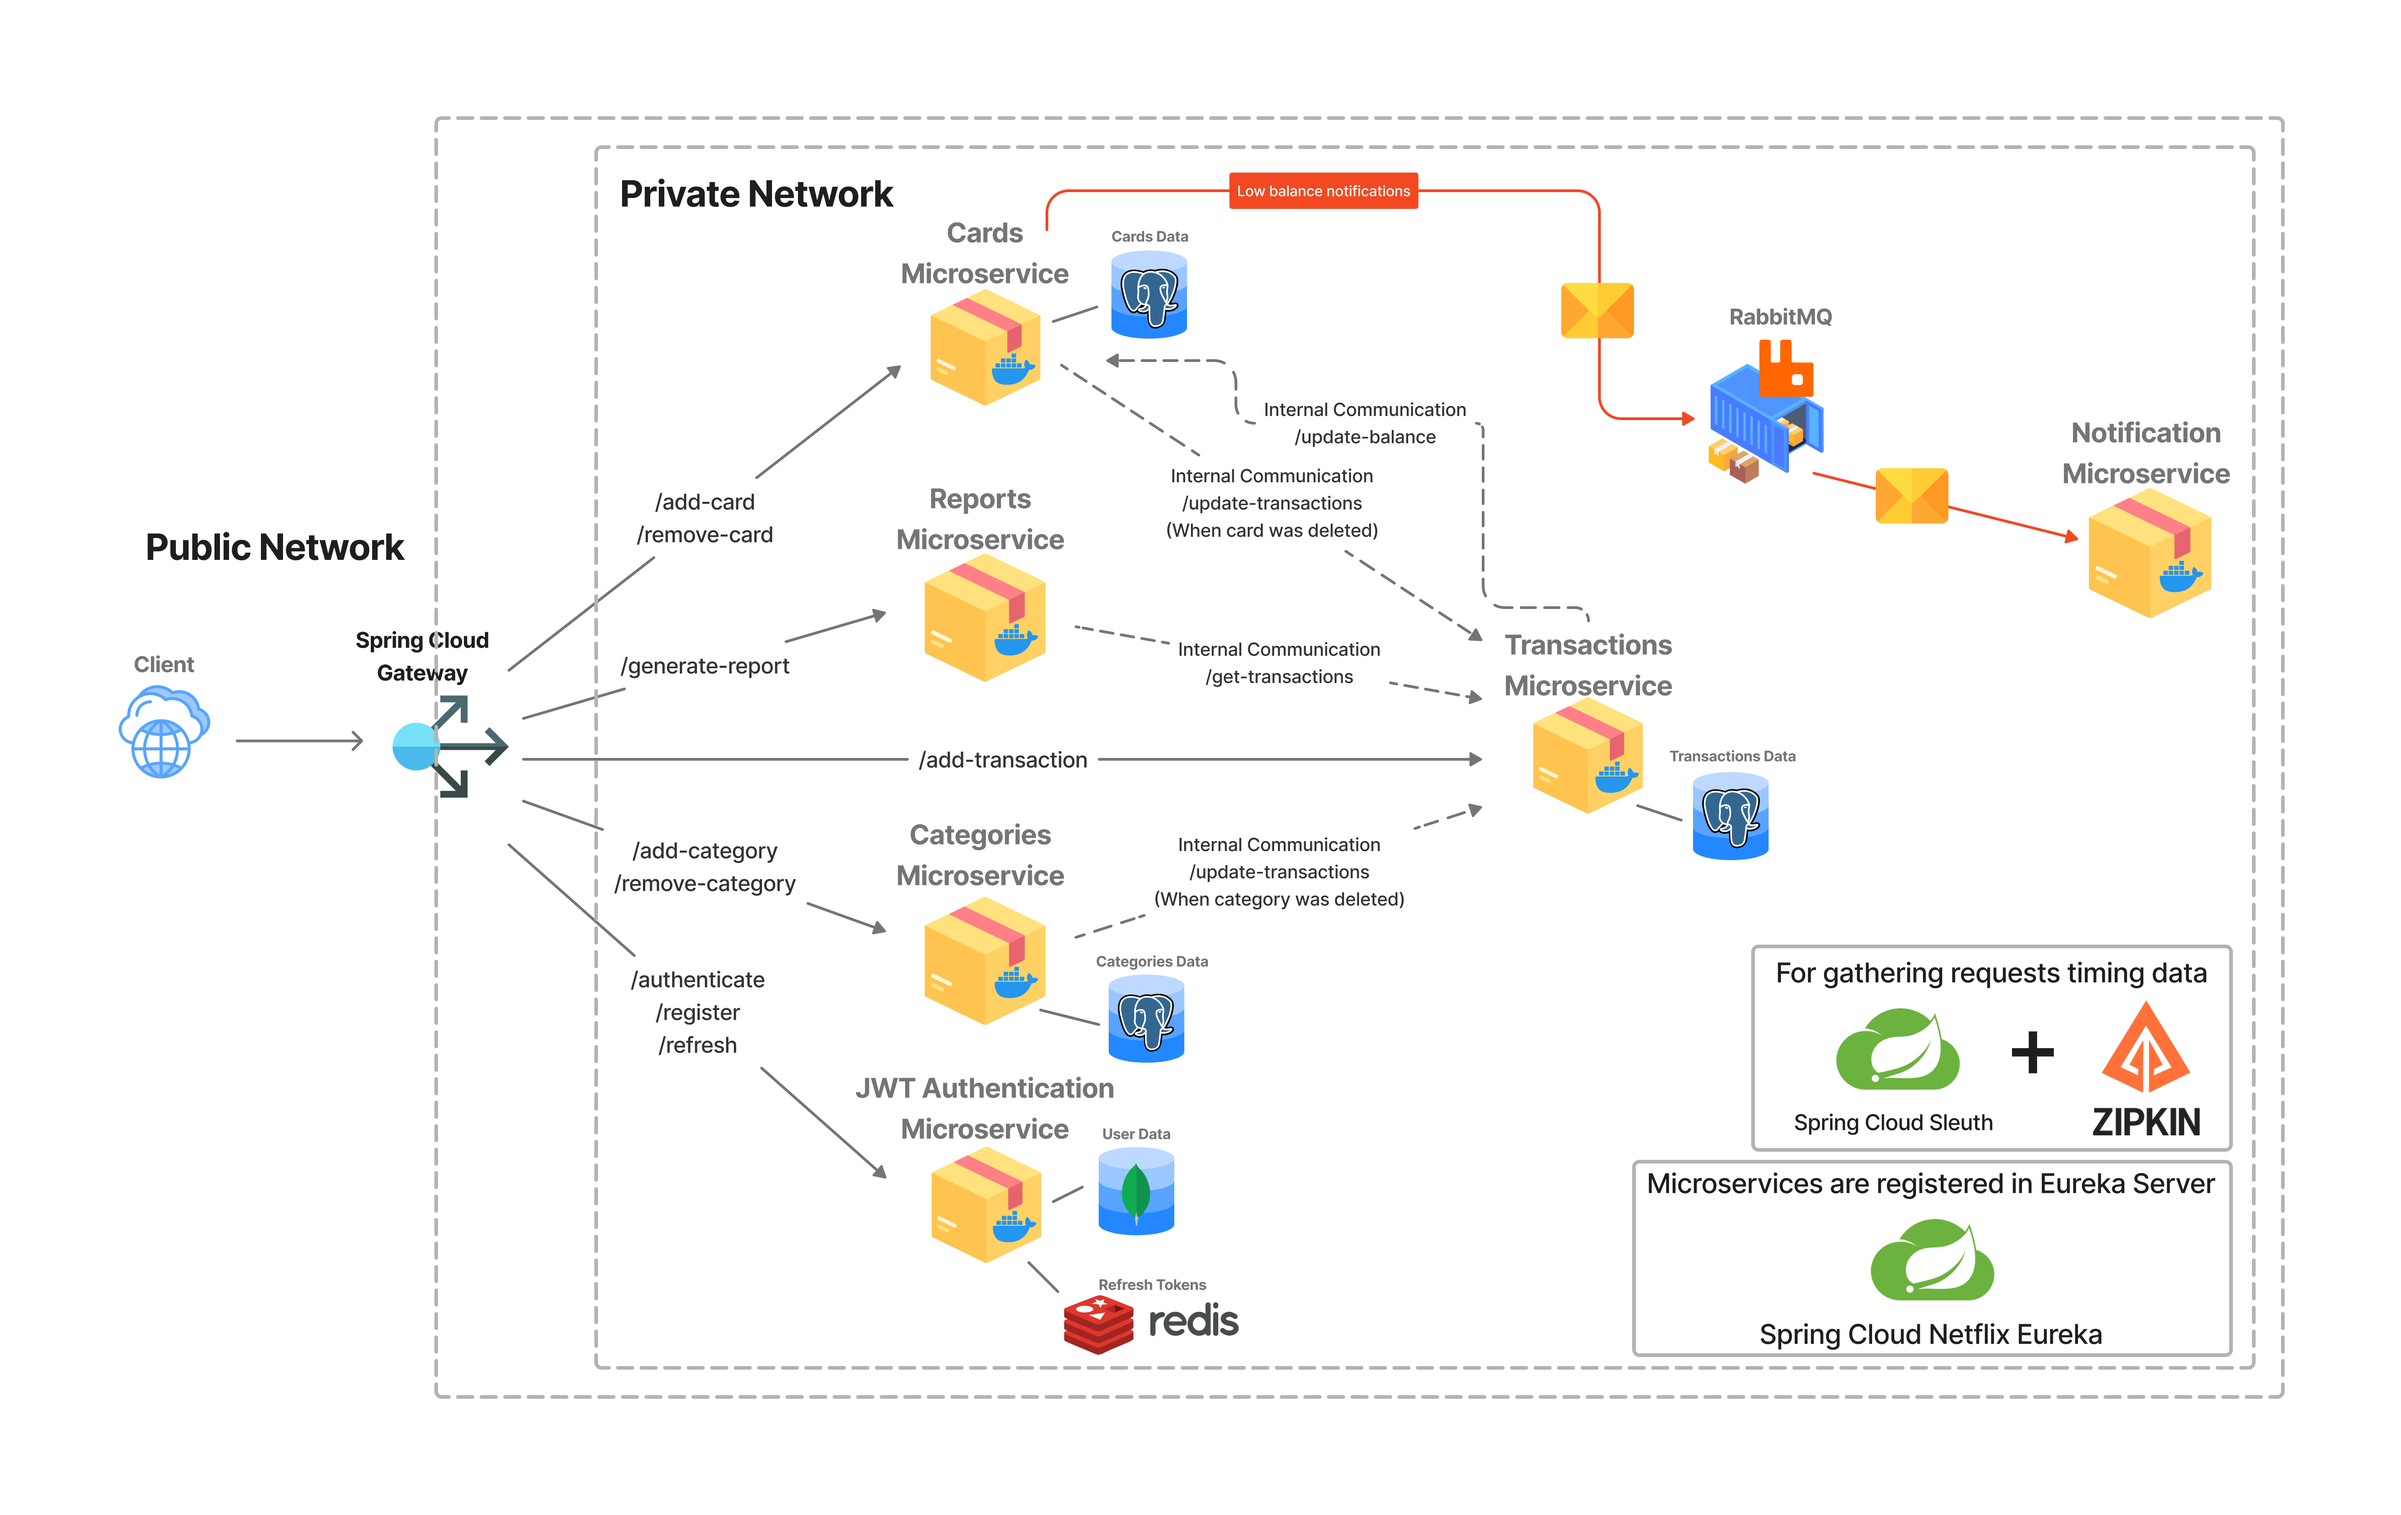
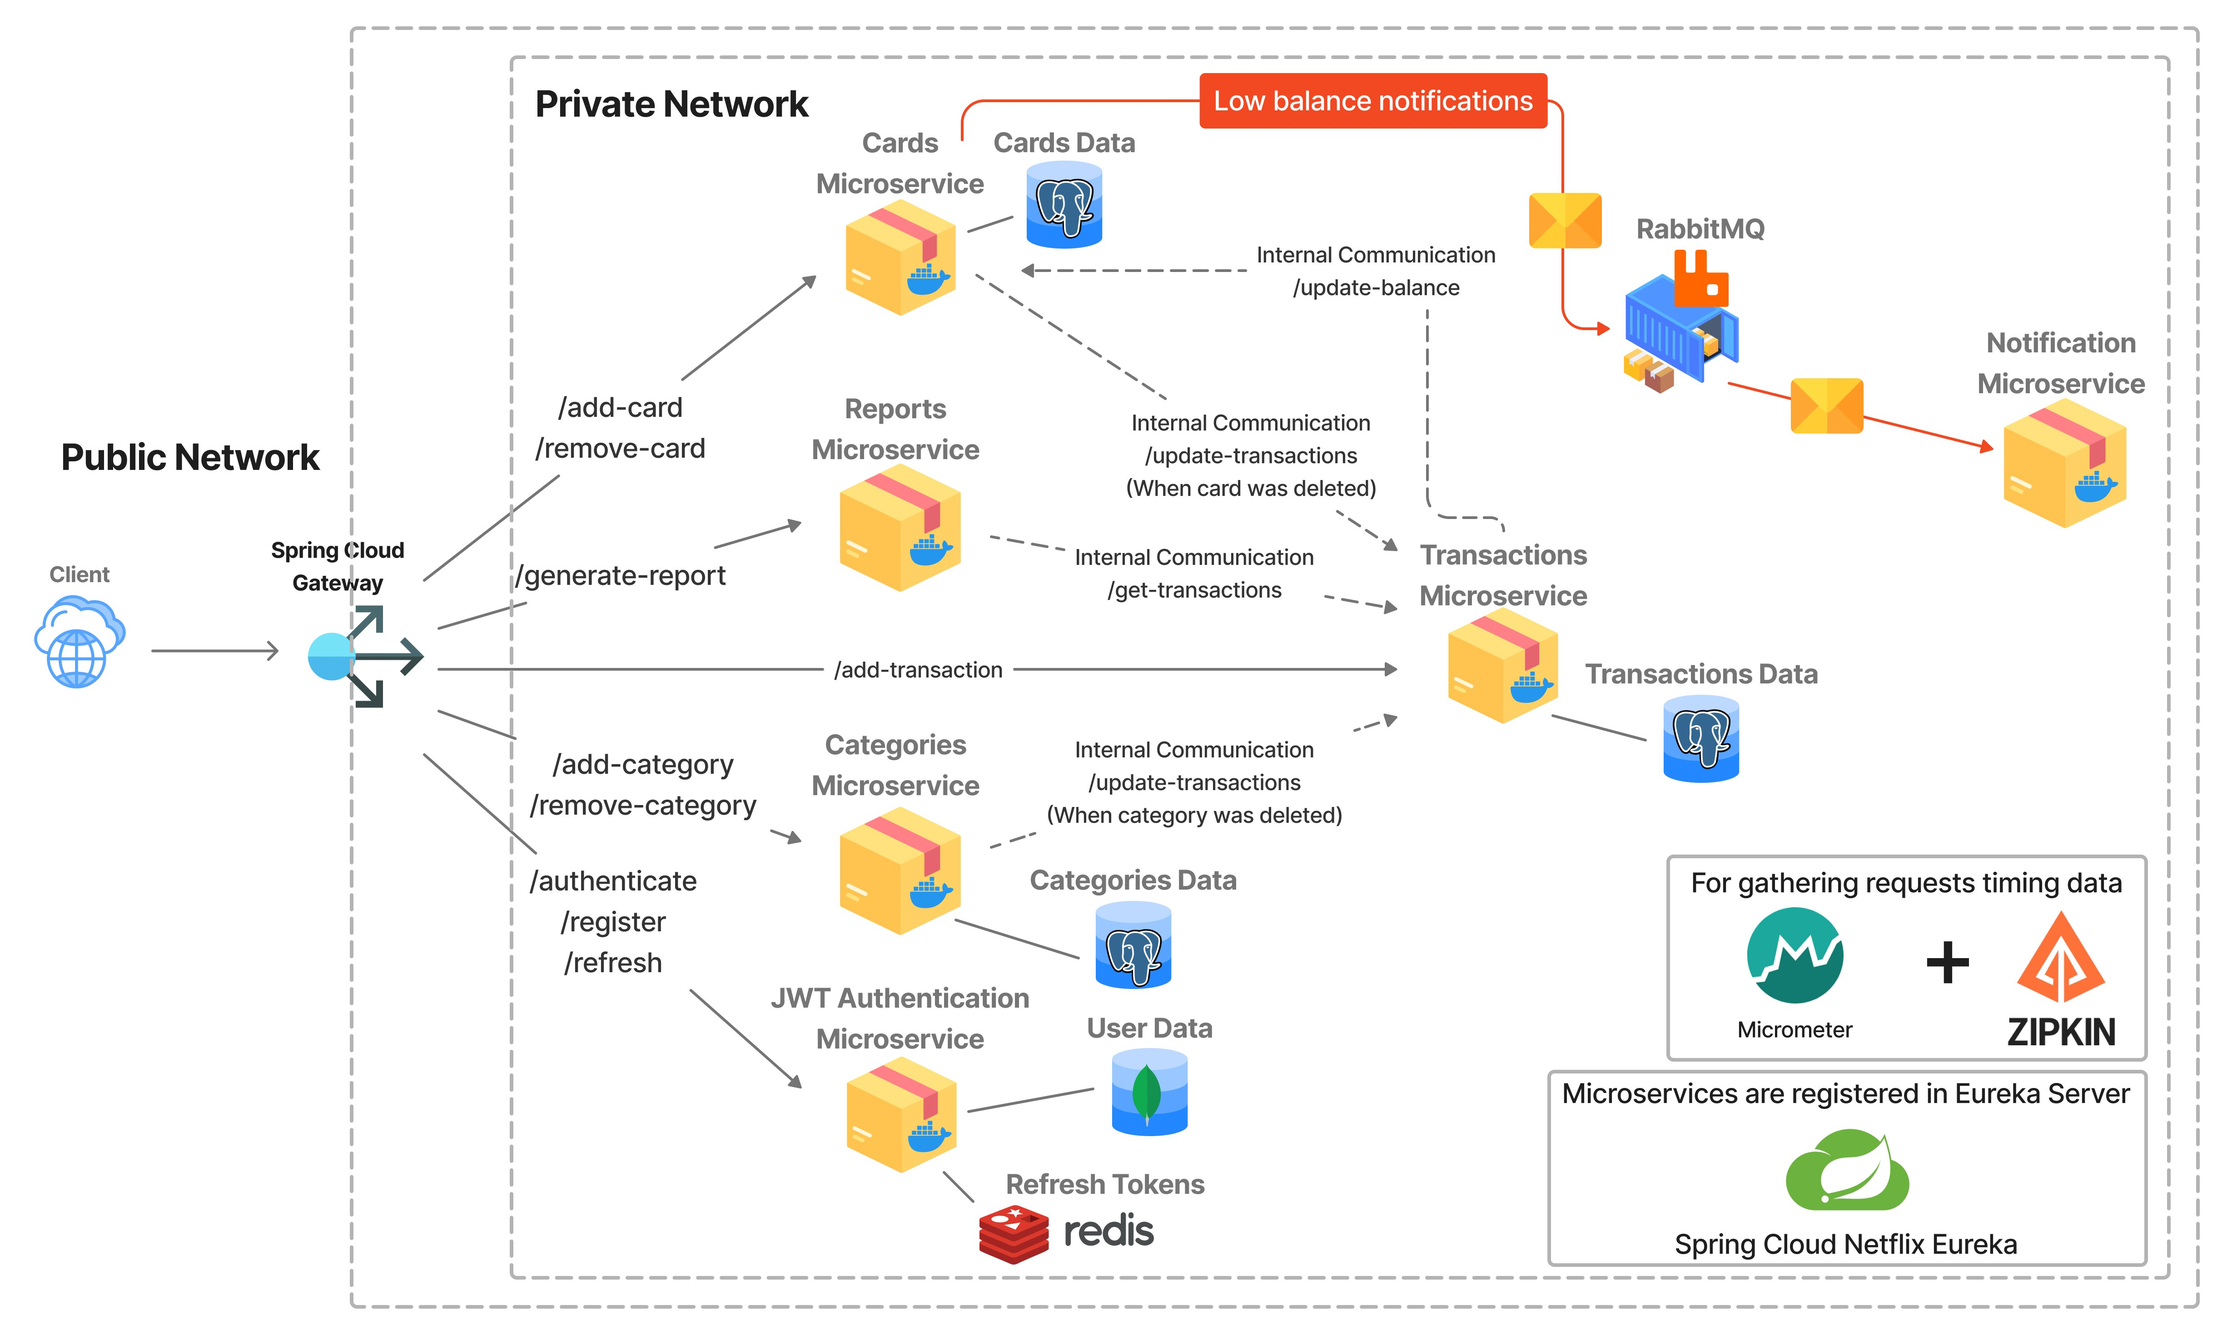
Added Micrometer and Zipkin. Fixed README.md

diff --git a/Cards/src/main/java/pyankovdaniil/microservices/cards/CardsController.java b/Cards/src/main/java/pyankovdaniil/microservices/cards/CardsController.java
@@ -1,5 +1,6 @@
 package pyankovdaniil.microservices.cards;
 
+import lombok.extern.slf4j.Slf4j;
 import org.springframework.web.bind.annotation.GetMapping;
 import org.springframework.web.bind.annotation.RequestMapping;
 import org.springframework.web.bind.annotation.RestController;
@@ -7,9 +8,11 @@ import pyankovdaniil.microservices.clients.auth.AuthenticationClient;
 
 @RestController
 @RequestMapping("/api/v1/cards")
+@Slf4j
 public record CardsController(AuthenticationClient authenticationClient) {
     @GetMapping("/get-card")
     public String getCard() {
+        log.info("Received /get-card request");
         return "You receive a card and token: " + authenticationClient.getJwt();
     }
 }

diff --git a/Api-Gateway/src/main/java/pyankovdaniil/microservices/config/ApiGatewayConfiguration.java b/Api-Gateway/src/main/java/pyankovdaniil/microservices/config/ApiGatewayConfiguration.java
@@ -1,0 +1,15 @@
+package pyankovdaniil.microservices.config;
+
+import feign.Capability;
+import feign.micrometer.MicrometerCapability;
+import io.micrometer.core.instrument.MeterRegistry;
+import org.springframework.context.annotation.Bean;
+import org.springframework.context.annotation.Configuration;
+
+@Configuration
+public class ApiGatewayConfiguration {
+    @Bean
+    public Capability capability(MeterRegistry registry) {
+        return new MicrometerCapability(registry);
+    }
+}

diff --git a/README.md b/README.md
@@ -39,8 +39,19 @@ There is short description for all microservices and link to their pages:
 - RabbitMQ - message query for asynchronous interaction between microservices
 - Eureka - regisrates every instance of microservices for better scalability
 - Open Feign - to get rid of code duplication
-- Spring Cloud Sleuth + Zipkin - gather requests timing data
 - Docker - to pull images and save all microservices to a containers
+- Micrometer + Zipkin - test requests timing
+- Postman - for generating requests
+
+# 👉 Testing the app
+
+For testing the microservice connection and speed of each microservice I used Micrometer, Zipkin and Postman.
+
+I was making requests with Postman, then get traceID from logs and check the whole path of the request through microservices.
+
+There is an example of how Zipkin allows to easily check the path of the request:
+
+![Zipkin and Postman](./img/Postman_and_Zipkin.jpg)
 
 # 👉 How to use Moneytron?
 
